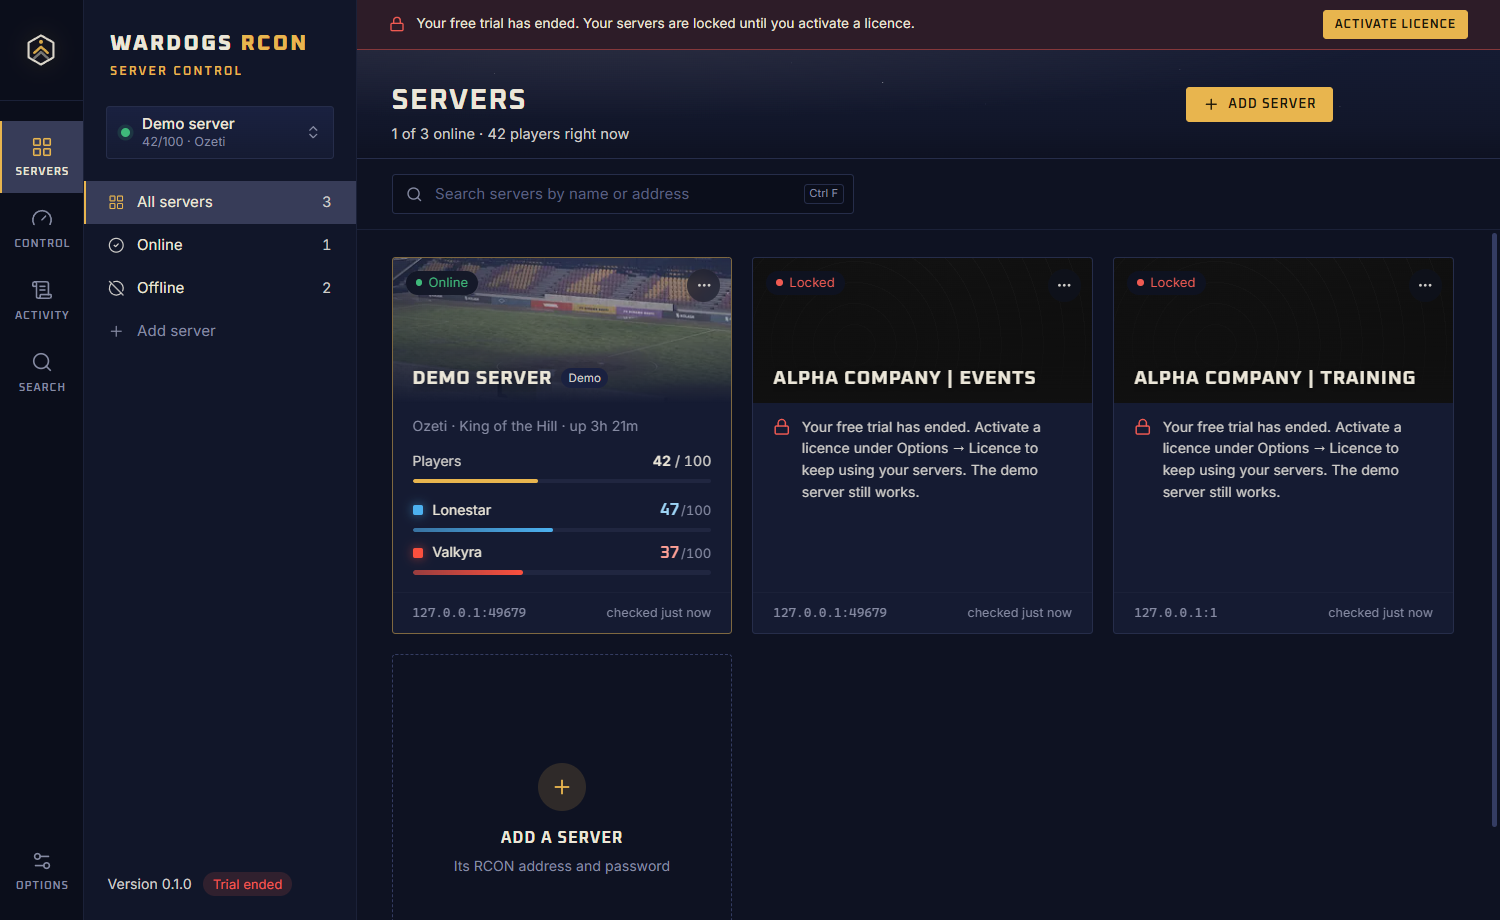
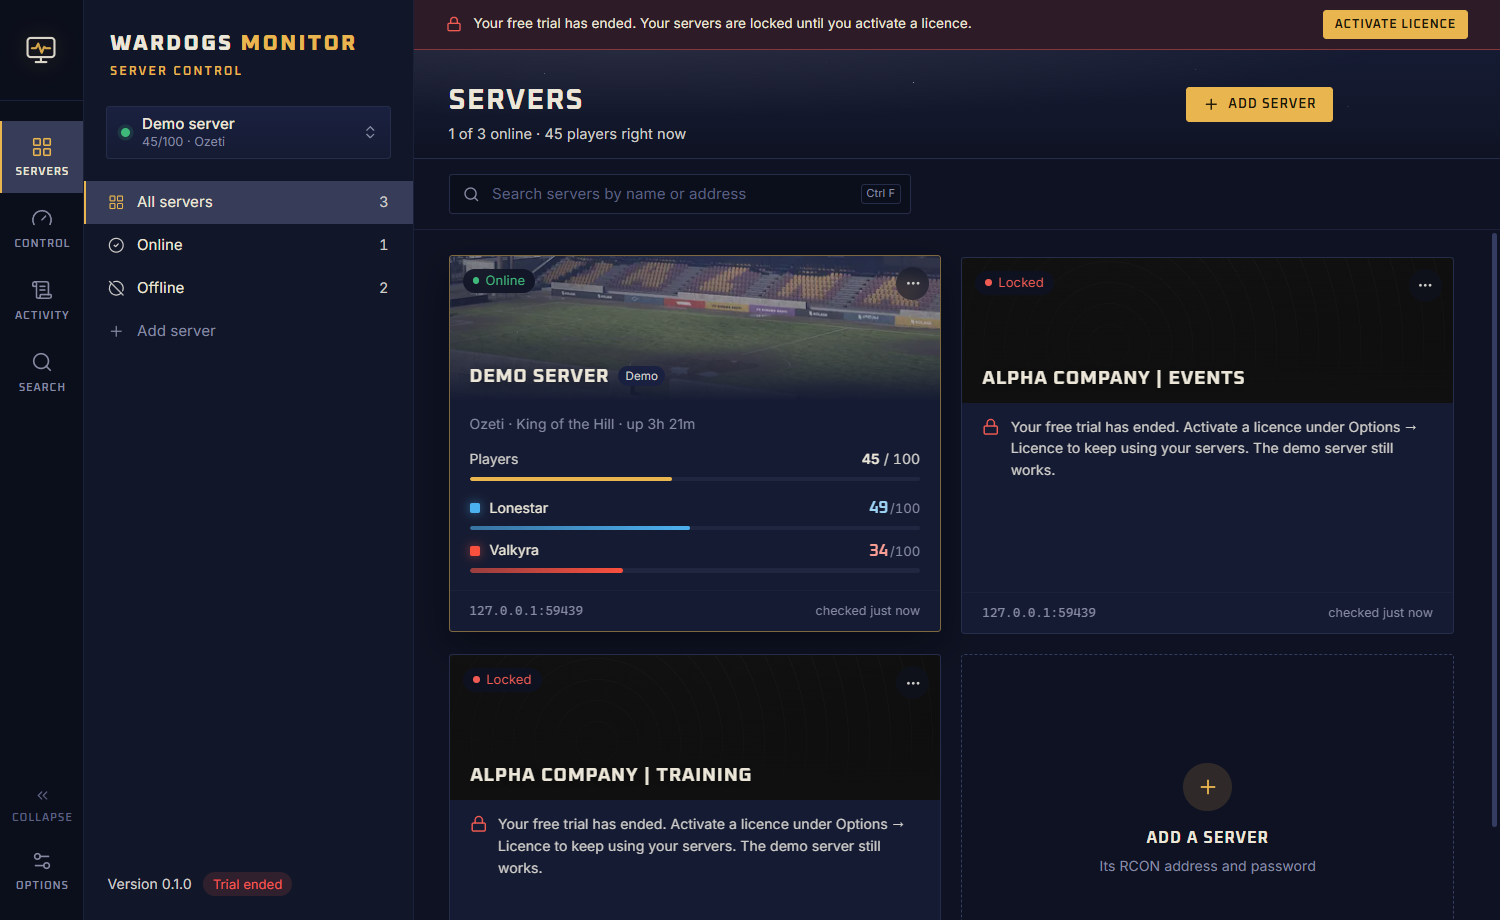
refactor(brand): rebrand app to Wardogs Monitor
- Update product name, wordmark, data folder, and WDM- licence key prefix
  with automatic migration from previous data folders on first launch
- Replace brand mark and app icon with a monitor-with-pulse design
- Widen sidebar to fit product name and add collapsible sidebar (Ctrl+B)
  with icon-only rail toggle
- Point website links to wardogsmonitor.com
- Upgrade GitHub Actions to current major versions
- Update README and screenshots

diff --git a/src/components/Sidebar.vue b/src/components/Sidebar.vue
@@ -1,9 +1,9 @@
 <script setup lang="ts">
-import { Ban, CircleCheck, CircleOff, Gauge, LayoutGrid, Map, Megaphone, PictureInPicture2, Plus, Repeat, Server, SlidersHorizontal, Users } from 'lucide-vue-next';
-import { computed, ref, watch } from 'vue';
+import { Ban, CircleCheck, CircleOff, Gauge, LayoutGrid, Map, Megaphone, PanelLeftClose, PictureInPicture2, Plus, Repeat, Server, SlidersHorizontal, Users } from 'lucide-vue-next';
+import { computed, onMounted, ref, watch } from 'vue';
 import ServerSwitcher from '@/components/ServerSwitcher.vue';
 import { BRAND, WORDMARK } from '@/lib/brand';
-import { openMini, openOptions, openView, section, selectedLive, state, VIEWS, type ControlView } from '@/lib/store';
+import { openMini, openOptions, openView, section, selectedLive, state, togglePanel, VIEWS, type ControlView } from '@/lib/store';
 
 /**
  * The second column: the wordmark, the server switcher and a list
@@ -12,6 +12,25 @@ import { openMini, openOptions, openView, section, selectedLive, state, VIEWS, t
  * or a server filter on the activity log.
  */
 const ICONS: Record<ControlView, unknown> = { overview: Gauge, players: Users, match: Map, rotation: Repeat, bans: Ban, settings: SlidersHorizontal };
+
+/**
+ * The sidebar is at least as wide as the product name needs, measured once
+ * the fonts have loaded, so a longer name never gets cut off.
+ */
+const brand = ref<HTMLElement | null>(null);
+const wordmark = ref<HTMLElement | null>(null);
+const width = ref<number | null>(null);
+
+onMounted(async () => {
+    await document.fonts.ready;
+
+    if (brand.value && wordmark.value) {
+        const style = getComputedStyle(brand.value);
+        const needed = wordmark.value.scrollWidth + parseFloat(style.paddingLeft) + parseFloat(style.paddingRight) + 30;
+        const base = parseFloat(getComputedStyle(document.documentElement).getPropertyValue('--side-w')) || 273;
+        width.value = Math.max(base, Math.ceil(needed));
+    }
+});
 
 const bansCount = ref<number | null>(null);
 const rotationCount = ref<number | null>(null);
@@ -61,10 +80,11 @@ function playersOnline(serverId: string): string {
 </script>
 
 <template>
-    <aside class="sidebar">
-        <header class="brand drag">
-            <h1 class="wordmark" :aria-label="BRAND.name">{{ WORDMARK.lead }} <span class="last">{{ WORDMARK.last }}</span></h1>
+    <aside class="sidebar" :style="width ? { width: `${width}px` } : undefined">
+        <header ref="brand" class="brand drag">
+            <h1 ref="wordmark" class="wordmark" :aria-label="BRAND.name">{{ WORDMARK.lead }} <span class="last">{{ WORDMARK.last }}</span></h1>
             <p class="label-caps">{{ BRAND.tagline }}</p>
+            <button type="button" class="collapse" title="Hide the sidebar (Ctrl+B)" @click="togglePanel('sidebarCollapsed')"><PanelLeftClose /></button>
         </header>
 
         <ServerSwitcher />
@@ -140,6 +160,7 @@ function playersOnline(serverId: string): string {
 }
 
 .brand {
+    position: relative;
     height: 101px;
     margin-bottom: 4.5px;
     padding: 31px 26.5px 0;
@@ -165,6 +186,40 @@ function playersOnline(serverId: string): string {
     color: var(--accent);
     font-size: 11.5px;
     letter-spacing: 0.22em;
+}
+
+.collapse {
+    position: absolute;
+    top: 33px;
+    right: 12px;
+    display: grid;
+    place-items: center;
+    width: 26px;
+    height: 26px;
+    border: 0;
+    border-radius: var(--radius);
+    background: transparent;
+    color: var(--faint);
+    opacity: 0;
+    transition:
+        opacity 0.12s,
+        color 0.12s,
+        background 0.12s;
+}
+
+.sidebar:hover .collapse,
+.collapse:focus-visible {
+    opacity: 1;
+}
+
+.collapse:hover {
+    background: var(--hover);
+    color: var(--text);
+}
+
+.collapse svg {
+    width: 16px;
+    height: 16px;
 }
 
 .list,

diff --git a/src/components/IconRail.vue b/src/components/IconRail.vue
@@ -1,8 +1,8 @@
 <script setup lang="ts">
-import { Gauge, LayoutGrid, ScrollText, Search, Settings2 } from 'lucide-vue-next';
+import { ChevronsLeft, ChevronsRight, Gauge, LayoutGrid, PanelLeftOpen, ScrollText, Search, Settings2 } from 'lucide-vue-next';
 import BrandMark from '@/components/BrandMark.vue';
 import { BRAND } from '@/lib/brand';
-import { openView, section, state, type Section } from '@/lib/store';
+import { openView, section, state, togglePanel, type Section } from '@/lib/store';
 
 /**
  * The narrow column of sections on the far left, like Guides / Lookup /
@@ -21,7 +21,7 @@ function open(id: Section): void {
 </script>
 
 <template>
-    <nav class="rail" aria-label="Sections">
+    <nav class="rail" :class="{ collapsed: state.preferences.railCollapsed }" aria-label="Sections">
         <div class="logo drag">
             <BrandMark class="mark" :aria-label="BRAND.name" />
         </div>
@@ -47,6 +47,15 @@ function open(id: Section): void {
         </button>
 
         <div class="spacer" />
+
+        <button v-if="state.preferences.sidebarCollapsed" type="button" class="item small" title="Show the sidebar (Ctrl+B)" @click="togglePanel('sidebarCollapsed')">
+            <PanelLeftOpen :stroke-width="1.75" />
+            <span>Sidebar</span>
+        </button>
+        <button type="button" class="item small" :title="state.preferences.railCollapsed ? 'Show labels' : 'Icons only'" @click="togglePanel('railCollapsed')">
+            <component :is="state.preferences.railCollapsed ? ChevronsRight : ChevronsLeft" :stroke-width="1.75" />
+            <span>Collapse</span>
+        </button>
 
         <button type="button" class="item" data-section="options" :class="{ active: section === 'options' }" @click="openView('options')">
             <Settings2 :stroke-width="1.75" />
@@ -124,6 +133,29 @@ function open(id: Section): void {
 .item:disabled {
     opacity: 0.35;
     cursor: default;
+}
+
+.collapsed {
+    width: 60px;
+}
+
+.collapsed .item span {
+    display: none;
+}
+
+.collapsed .item {
+    padding: 14px 4px;
+}
+
+.small {
+    padding-top: 9px;
+    padding-bottom: 9px;
+    color: var(--faint);
+}
+
+.small svg {
+    width: 17px;
+    height: 17px;
 }
 
 .spacer {

diff --git a/src/components/Shell.vue b/src/components/Shell.vue
@@ -11,7 +11,7 @@ import ServerDialog from '@/components/ServerDialog.vue';
 import Sidebar from '@/components/Sidebar.vue';
 import Toasts from '@/components/Toasts.vue';
 import Welcome from '@/components/Welcome.vue';
-import { init, openView, refreshLive, section, selectedServer, state, VIEWS } from '@/lib/store';
+import { init, openView, refreshLive, section, selectedServer, state, togglePanel, VIEWS } from '@/lib/store';
 import ActivityView from '@/views/ActivityView.vue';
 import BansView from '@/views/BansView.vue';
 import MatchView from '@/views/MatchView.vue';
@@ -50,7 +50,10 @@ const showView = computed(() => (section.value === 'control' ? selectedServer.va
 function onKey(event: KeyboardEvent): void {
     const typing = event.target instanceof HTMLInputElement || event.target instanceof HTMLTextAreaElement || event.target instanceof HTMLSelectElement;
 
-    if (event.ctrlKey && event.key.toLowerCase() === 'h') {
+    if (event.ctrlKey && event.key.toLowerCase() === 'b') {
+        event.preventDefault();
+        togglePanel('sidebarCollapsed');
+    } else if (event.ctrlKey && event.key.toLowerCase() === 'h') {
         event.preventDefault();
         openView('servers');
     } else if (event.ctrlKey && /^[1-6]$/.test(event.key)) {
@@ -79,7 +82,9 @@ onUnmounted(() => window.removeEventListener('keydown', onKey));
 <template>
     <div class="shell">
         <IconRail />
-        <Sidebar />
+        <Transition name="slide">
+            <Sidebar v-if="!state.preferences.sidebarCollapsed" />
+        </Transition>
 
         <template v-if="state.ready">
             <main v-if="showView" class="content" :class="{ wide }">
@@ -122,6 +127,19 @@ onUnmounted(() => window.removeEventListener('keydown', onKey));
 
 .content.wide {
     border-right: 0;
+}
+
+.slide-enter-active,
+.slide-leave-active {
+    transition:
+        margin 0.18s ease,
+        opacity 0.18s ease;
+}
+
+.slide-enter-from,
+.slide-leave-to {
+    margin-left: calc(var(--side-w) * -1);
+    opacity: 0;
 }
 
 .boot {

diff --git a/src/components/BrandMark.vue b/src/components/BrandMark.vue
@@ -1,16 +1,15 @@
 <script setup lang="ts">
 /**
- * The app's mark: a hexagon badge with rank chevrons, in the text colour
- * and the theme's accent, so it follows every theme.
+ * The app's mark: a monitor with a pulse line, in the text colour and the
+ * theme's accent, so it follows every theme.
  */
 </script>
 
 <template>
     <svg class="brand-mark" viewBox="0 0 48 48" fill="none" stroke-linecap="round" stroke-linejoin="round" aria-hidden="true">
-        <path d="M24 3.5 41.5 13.5v21L24 44.5 6.5 34.5v-21Z" stroke="currentColor" stroke-width="3" />
-        <path d="M14.5 35.5 24 27l9.5 8.5" stroke="currentColor" stroke-opacity="0.5" stroke-width="3.5" />
-        <path d="M14.5 28 24 19.5l9.5 8.5" stroke="var(--accent)" stroke-width="3.5" />
-        <circle cx="24" cy="12.5" r="2.75" fill="var(--accent)" />
+        <rect x="5" y="7" width="38" height="27" rx="4.5" stroke="currentColor" stroke-width="3" />
+        <path d="M24 34v6.5M16.5 41h15" stroke="currentColor" stroke-width="3" />
+        <path d="M11 21.5h6l3-6.5 5 13 3.5-8.5 2 2h6.5" stroke="var(--accent)" stroke-width="3" />
     </svg>
 </template>
 

diff --git a/src/lib/store.ts b/src/lib/store.ts
@@ -74,6 +74,8 @@ export const state = reactive({
         accent: 'gold',
         zoom: 1,
         miniZoom: 1,
+        railCollapsed: false,
+        sidebarCollapsed: false,
         notifyServerDown: true,
         notifyWatched: true,
         watchlist: [],
@@ -289,6 +291,12 @@ export function selectServer(serverId: string, open = true): void {
     if (open && sectionOf(state.view) !== 'control') {
         state.view = state.lastControlView;
     }
+}
+
+/** Show or hide the sidebar (Ctrl+B), or the rail's labels; remembered. */
+export async function togglePanel(which: 'railCollapsed' | 'sidebarCollapsed'): Promise<void> {
+    state.preferences = { ...state.preferences, [which]: !state.preferences[which] };
+    state.preferences = await window.panel.preferences.set({ [which]: state.preferences[which] });
 }
 
 /** Open Options on one of its tabs. */

diff --git a/src/views/OptionsView.vue b/src/views/OptionsView.vue
@@ -107,6 +107,7 @@ const openUrl = (url: string) => window.panel.openExternal(url);
 const SHORTCUTS = [
     ['Ctrl+K', 'Search everything: players on every server, servers, views and actions'],
     ['Ctrl+H', 'All servers as cards'],
+    ['Ctrl+B', 'Show or hide the sidebar'],
     ['Ctrl+1 … Ctrl+6', 'Open Overview, Players, Match, Rotation, Bans, Settings'],
     ['Ctrl + / Ctrl -', 'Zoom in and out (Ctrl+mouse wheel works too)'],
     ['Ctrl+0', 'Reset zoom'],

diff --git a/index.html b/index.html
@@ -3,7 +3,7 @@
     <head>
         <meta charset="UTF-8" />
         <meta http-equiv="Content-Security-Policy" content="default-src 'self'; img-src 'self' data: https:; style-src 'self' 'unsafe-inline'; font-src 'self' data:; script-src 'self'; connect-src 'self' ws://localhost:5199" />
-        <title>Wardogs RCON</title>
+        <title>Wardogs Monitor</title>
     </head>
     <body>
         <div id="app"></div>

diff --git a/src/types.ts b/src/types.ts
@@ -170,6 +170,8 @@ export interface Preferences {
     accent: string;
     zoom: number;
     miniZoom: number;
+    railCollapsed: boolean;
+    sidebarCollapsed: boolean;
     notifyServerDown: boolean;
     notifyWatched: boolean;
     watchlist: WatchedPlayer[];

diff --git a/README.md b/README.md
@@ -1,8 +1,8 @@
-# Wardogs RCON
+# Wardogs Monitor
 
-**Server control for Wardogs.** A Windows desktop app to monitor, moderate and run Wardogs dedicated servers: live scores and players, kicks and bans, the match and its map rotation, and every server setting, for as many servers as you run.
+**Server control for Wardogs** ([wardogsmonitor.com](https://wardogsmonitor.com)). A Windows desktop app to monitor, moderate and run Wardogs dedicated servers: live scores and players, kicks and bans, the match and its map rotation, and every server setting, for as many servers as you run.
 
-[![Build](https://github.com/CodeWithDennis/wardogs-rcon/actions/workflows/build.yml/badge.svg)](https://github.com/CodeWithDennis/wardogs-rcon/actions/workflows/build.yml)
+[![Build](https://github.com/CodeWithDennis/wardogs-monitor/actions/workflows/build.yml/badge.svg)](https://github.com/CodeWithDennis/wardogs-monitor/actions/workflows/build.yml)
 
 ![All servers as cards](docs/screenshots/servers.png)
 
@@ -56,16 +56,18 @@
 | **Themes** | **Trial ended, servers locked** |
 | ![Themes](docs/screenshots/themes.png) | ![Licence](docs/screenshots/licence.png) |
 
-The mini monitor:
+The mini monitor, and the window with the sidebar hidden and the rail on icons only:
 
 ![Mini monitor](docs/screenshots/mini-monitor.png)
 
+![Collapsed](docs/screenshots/collapsed.png)
+
 ## Install
 
-Download the latest build from the [Releases](https://github.com/CodeWithDennis/wardogs-rcon/releases) page, or from the artifacts of the latest [Build run](https://github.com/CodeWithDennis/wardogs-rcon/actions/workflows/build.yml):
+Download the latest build from the [Releases](https://github.com/CodeWithDennis/wardogs-monitor/releases) page, or from the artifacts of the latest [Build run](https://github.com/CodeWithDennis/wardogs-monitor/actions/workflows/build.yml):
 
-- `Wardogs RCON Setup x.y.z.exe`: an installer (choose the folder, adds a Start menu entry).
-- `Wardogs RCON x.y.z.exe`: a portable exe that runs without installing.
+- `Wardogs Monitor Setup x.y.z.exe`: an installer (choose the folder, adds a Start menu entry).
+- `Wardogs Monitor x.y.z.exe`: a portable exe that runs without installing.
 
 The builds are not code-signed yet, so Windows SmartScreen may warn on first start: choose **More info → Run anyway**.
 
@@ -85,6 +87,7 @@ The app checks that the server answers with that password before saving it.
 | --- | --- |
 | Ctrl+K | Search everything |
 | Ctrl+H | All servers as cards |
+| Ctrl+B | Show or hide the sidebar (the rail's « button switches it to icons only) |
 | Ctrl+1 … Ctrl+6 | Overview, Players, Match, Rotation, Bans, Settings |
 | Ctrl+F | Jump to the page's search box |
 | F5 or Ctrl+R | Read the server again now |
@@ -132,7 +135,7 @@ Code signing: the workflow builds unsigned (`CSC_IDENTITY_AUTO_DISCOVERY=false`)
 
 The app runs a **14-day free trial** from its first start (`trialDays` in `brand.json`). After that, real servers are locked until a licence key is activated; the demo server always works. The lock is enforced in Electron's main process, not just hidden in the window.
 
-A licence key is the licence itself (name, email, plan, optional end date), signed with an Ed25519 private key. The app ships only the public key, so it can check keys offline but can never make them. Editing a key, or signing one with another private key, makes it invalid. Keys look like `WRCON-<licence>.<signature>`.
+A licence key is the licence itself (name, email, plan, optional end date), signed with an Ed25519 private key. The app ships only the public key, so it can check keys offline but can never make them. Editing a key, or signing one with another private key, makes it invalid. Keys look like `WDM-<licence>.<signature>`.
 
 ```bash
 node scripts/license/keygen.mjs      # once: makes license-signing/private.pem and electron/license-public-key.mjs
@@ -145,12 +148,13 @@ node scripts/license/issue.mjs --name "Jane Doe" --email jane@example.com --days
 - Selling through Lemon Squeezy, Gumroad or Paddle works by issuing a key when an order comes in, by hand or from their webhook with `issue.mjs`.
 - Offline keys can be copied between PCs; the licensee's name shows in the app, which discourages sharing. For hard seat limits, add online activation through a licence API such as Lemon Squeezy's `/v1/licenses/activate`.
 - The trial start lives in the app's data folder, so deleting that folder restarts the trial.
+- **Planned:** online activation, payments (Stripe) and licence management on [wardogsmonitor.com](https://wardogsmonitor.com), a Laravel site built on [Larament](https://github.com/codewithdennis/larament). The app will check keys against it, with the offline signature kept as a fallback.
 
 ## Renaming and branding
 
 The product name, tagline, licence key prefix, trial length, website and support email live in [`brand.json`](brand.json). When renaming, also change `productName` in `package.json` and the `<title>` in `index.html`.
 
-The data folder (`%APPDATA%\Wardogs RCON`) is set by `dataFolder` and stays put across renames; `previousDataFolders` lists older folders whose saved servers move over on first start.
+The data folder (`%APPDATA%\Wardogs Monitor`) is set by `dataFolder` and stays put across renames; `previousDataFolders` lists older folders whose saved servers move over on first start.
 
 The app icon (`build/icon.png`) is rendered from `src/assets/brand/mark.svg` with `npx electron scripts/make-icon.mjs`.
 
@@ -211,7 +215,7 @@ tests/                      node:test suites
 - **The name**: "Wardogs" is the game's trademark, and the developer runs `rcon.wardogs.com`. Get the developer's permission before selling under this name, or rename the app (see [Renaming and branding](#renaming-and-branding)).
 - **The map pictures** in `src/assets/maps` are screenshots from the game; they need the developer's permission too, or replacing with your own artwork.
 - **Code signing**: a certificate removes the SmartScreen warning and builds trust with buyers.
-- **Website and support email**: fill in `website` and `supportEmail` in `brand.json`; the Licence page then shows a **Buy a licence** button.
+- **Support email**: fill in `supportEmail` in `brand.json`. The website is set to wardogsmonitor.com, so the Licence page shows a **Buy a licence** button.
 
 ## Licence
 
